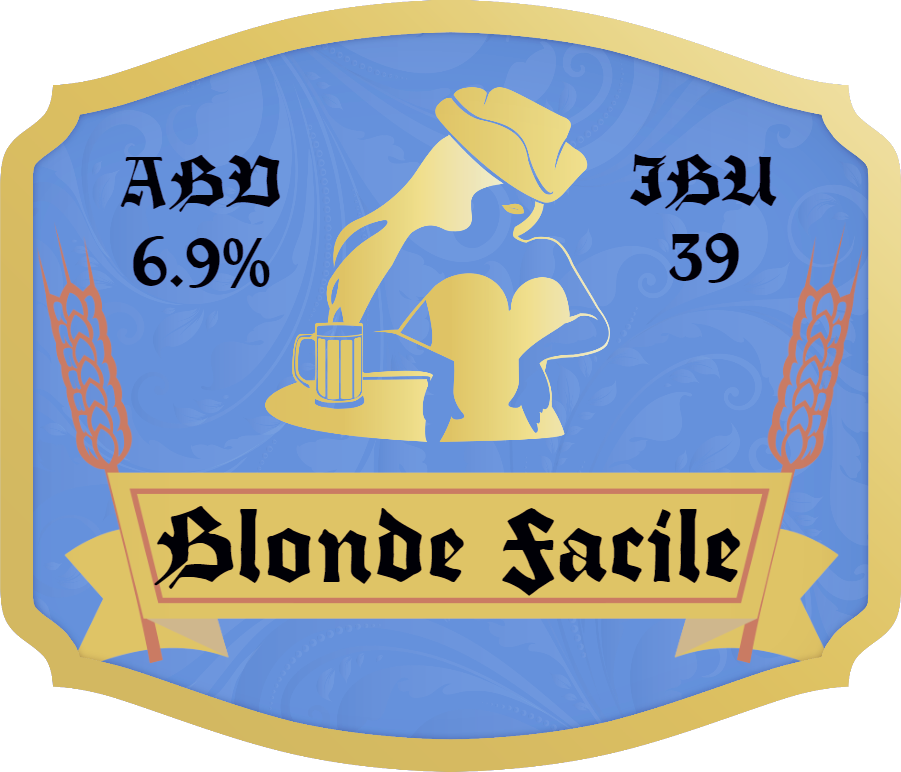
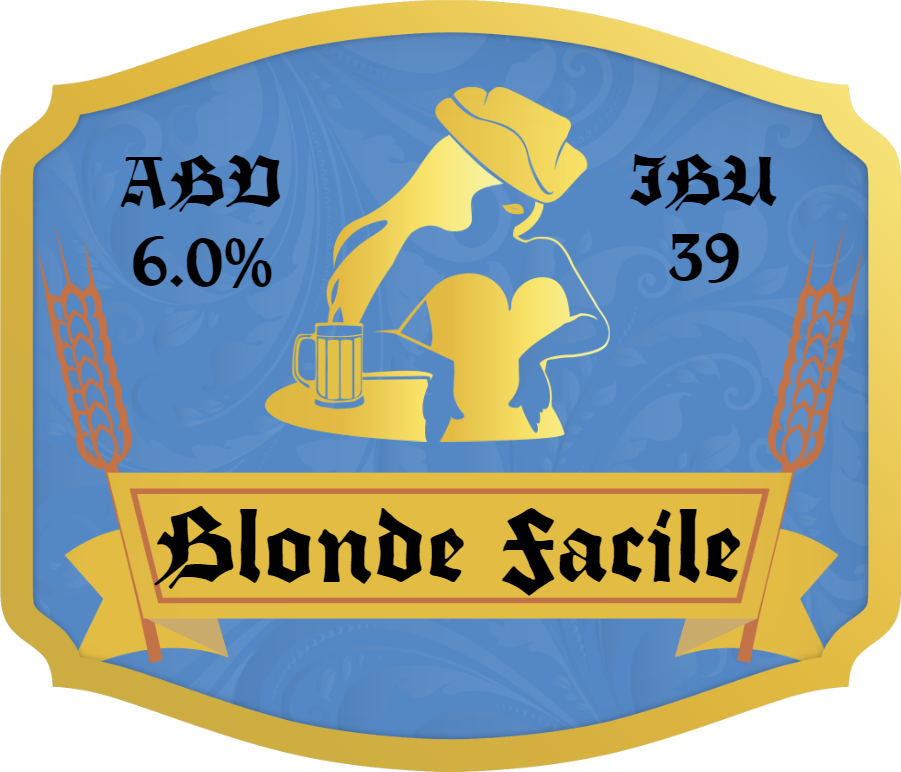
website

diff --git a/KegeratorMonitor/WebSite/index.html b/KegeratorMonitor/WebSite/index.html
@@ -200,7 +200,7 @@
   </div>
 
   <img id="beer_level_img_left" class="beer_level" src="beer_column_gold.jpg" style="display: none;" />
-  <img id="beer_level_img_right" class="beer_level" src="beer_column_dark.jpg" style="display: none;" />
+  <img id="beer_level_img_right" class="beer_level" src="beer_column_gold.jpg" style="display: none;" />
 <table>
   <tr>
 
@@ -208,7 +208,7 @@
       <table>
         <tr>
           <td class="keg_left_title">
-            <img src='ScrapheapLager.png' width='350'/>
+            <img src='BlondeFacile.png' width='350'/>
           </td>
         </tr>
         <tr>
